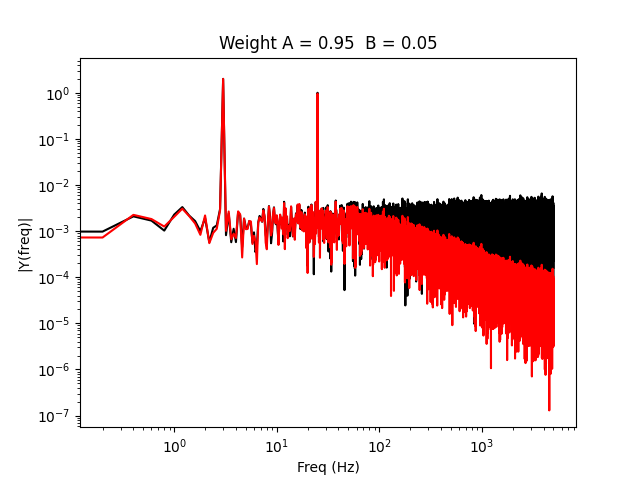
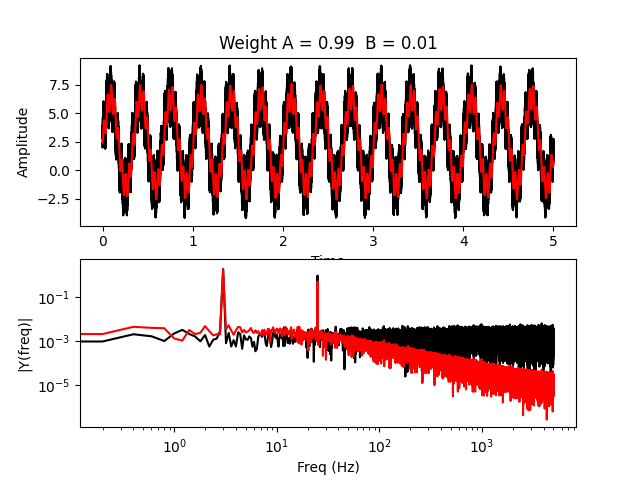
plot update

diff --git a/HW2/IIR/IIR.py b/HW2/IIR/IIR.py
@@ -4,7 +4,7 @@ import csv
 
 t = [] # column 0
 data = [] # column 1
-with open('sigC.csv') as f:
+with open('sigD.csv') as f:
     # open the csv file
     reader = csv.reader(f)
     for row in reader:
@@ -13,13 +13,20 @@ with open('sigC.csv') as f:
         data.append(float(row[1])) # second column
 
 i=1
-A=0.1
+A=0.8
 newdata=[]
 newdata.append(data[0])
 while i<len(t):
     newdata.append(A*newdata[i-1]+(1-A)*data[i])
     i=i+1
 
+
+
+fig, (ax1, ax2) = plt.subplots(2, 1)
+ax1.plot(t,data,'k')
+ax1.plot(t,newdata,'r')
+ax1.set_xlabel('Time')
+ax1.set_ylabel('Amplitude')
 
 
 Fs = len(t)/(t[-1]-t[0]) #sampling rate
@@ -34,7 +41,7 @@ frq = frq[range(int(n/2))] # one side frequency range
 Y = np.fft.fft(y)/n # fft computing and normalization
 Y = Y[range(int(n/2))]
 
-plt.loglog(frq,abs(Y),'k') # plotting the fft
+ax2.loglog(frq,abs(Y),'k') # plotting the fft
 
 Fs = len(t)/(t[-1]-t[0]) #sampling rate
 Ts = 1.0/Fs # sampling interval
@@ -48,13 +55,12 @@ frq = frq[range(int(n/2))] # one side frequency range
 Y = np.fft.fft(y)/n # fft computing and normalization
 Y = Y[range(int(n/2))]
 
-plt.loglog(frq,abs(Y),'r') # plotting the fft
+ax2.loglog(frq,abs(Y),'r') # plotting the fft
 
-
-plt.xlabel('Freq (Hz)')
-plt.ylabel('|Y(freq)|')
+ax2.set_xlabel('Freq (Hz)')
+ax2.set_ylabel('|Y(freq)|')
 title="Weight A = %.2f  B = %.2f" % (A, (1-A))
-plt.title(title)
+ax1.set_title(title)
 
 plt.show()
 
